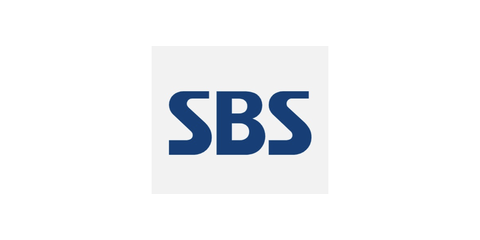
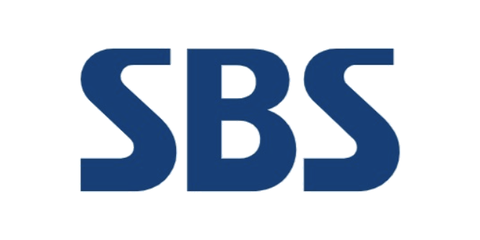
SBS 로고 배경 제거 + 관리자 파트너 로고 연동 (v67)
SBS:
- 원본에 #f2f2f2 배경 박스가 66% 차지 → 밝은 회색을 흰색으로 치환 후
  로고 기준으로 다시 트림. MBC·MBN과 크기 균형 맞음.

파트너 로고 연동:
- DB clients 테이블이 비어 있어 관리자 목록이 텅 빈 상태였음
  (사이트 48개는 index.html에 하드코딩 → 관리자가 손댈 수 없었음)
- API에 DEFAULT_CLIENTS(48개) + /clients/seed 엔드포인트 추가
  (포트폴리오 시드와 동일 방식, 비어 있을 때만 동작)
- 관리자에 "파트너 로고 48개 불러오기" 버튼 추가(목록이 빌 때만 노출)
  불러오면 이름·순서·링크를 관리자에서 직접 관리 가능
- 라벨을 사이트와 통일: 클라이언트 → 파트너 로고

Changed region(s): [[0.1562, 0.175, 0.8438, 0.8167]]

diff --git a/admin.html b/admin.html
@@ -206,7 +206,7 @@
       <button data-v="contact"><svg fill="none" stroke-width="1.8" viewBox="0 0 24 24"><path d="M21 15a2 2 0 01-2 2H7l-4 4V5a2 2 0 012-2h14a2 2 0 012 2z"/></svg>문의 섹션 문구</button>
       <button data-v="cta"><svg fill="none" stroke-width="1.8" viewBox="0 0 24 24"><path d="M4 12h13"/><path d="M13 6l6 6-6 6"/></svg>최종 CTA</button>
       <button data-v="portfolio"><svg fill="none" stroke-width="1.8" viewBox="0 0 24 24"><rect x="2" y="6" width="14" height="12" rx="2"/><path d="M22 8.5l-6 3.5 6 3.5v-7z"/></svg>포트폴리오</button>
-      <button data-v="clients"><svg fill="none" stroke-width="1.8" viewBox="0 0 24 24"><circle cx="9" cy="8" r="3.5"/><path d="M2.5 20c0-3.5 2.9-5.5 6.5-5.5s6.5 2 6.5 5.5"/><circle cx="17.5" cy="9" r="2.7"/><path d="M16.5 14.7c2.9.3 5 2.1 5 4.8"/></svg>클라이언트</button>
+      <button data-v="clients"><svg fill="none" stroke-width="1.8" viewBox="0 0 24 24"><circle cx="9" cy="8" r="3.5"/><path d="M2.5 20c0-3.5 2.9-5.5 6.5-5.5s6.5 2 6.5 5.5"/><circle cx="17.5" cy="9" r="2.7"/><path d="M16.5 14.7c2.9.3 5 2.1 5 4.8"/></svg>파트너 로고</button>
       <button data-v="footer"><svg fill="none" stroke-width="1.8" viewBox="0 0 24 24"><path d="M12 21s-7-5.5-7-11a7 7 0 1114 0c0 5.5-7 11-7 11z"/><circle cx="12" cy="10" r="2.5"/></svg>푸터 · 회사정보</button>
       <button data-v="inbox"><svg fill="none" stroke-width="1.8" viewBox="0 0 24 24"><rect x="3" y="5" width="18" height="14" rx="2.5"/><path d="M3 8l9 6 9-6"/></svg>문의내역<span class="badge" id="inboxBadge" style="display:none"></span></button>
     </nav>
@@ -417,11 +417,12 @@
     <!-- ===== 클라이언트 ===== -->
     <section class="view" data-view="clients">
       <div class="card">
-        <h3><span class="chip green"><svg fill="none" stroke="currentColor" stroke-width="1.8" viewBox="0 0 24 24"><circle cx="9" cy="8" r="3.5"/><path d="M2.5 20c0-3.5 2.9-5.5 6.5-5.5s6.5 2 6.5 5.5"/><circle cx="17.5" cy="9" r="2.7"/><path d="M16.5 14.7c2.9.3 5 2.1 5 4.8"/></svg></span>클라이언트 로고</h3>
-        <p class="desc">로고 이미지 URL을 넣으면 로고가, 없으면 이름 텍스트가 표시됩니다. 드래그로 순서 변경.</p>
+        <h3><span class="chip green"><svg fill="none" stroke="currentColor" stroke-width="1.8" viewBox="0 0 24 24"><circle cx="9" cy="8" r="3.5"/><path d="M2.5 20c0-3.5 2.9-5.5 6.5-5.5s6.5 2 6.5 5.5"/><circle cx="17.5" cy="9" r="2.7"/><path d="M16.5 14.7c2.9.3 5 2.1 5 4.8"/></svg></span>파트너 로고</h3>
+        <p class="desc">목록이 비어 있으면 사이트에 넣어둔 기본 로고가 그대로 표시됩니다. 아래 버튼으로 불러오면 그때부터 여기서 순서·이름을 관리할 수 있습니다. 드래그로 순서 변경.</p>
         <div class="rowlist" id="clList"></div>
+        <div id="clSeedWrap" style="display:none;margin-top:14px"><button class="btn ghost sm" onclick="seedCl()">현재 사이트의 파트너 로고 48개 불러오기</button></div>
         <div class="addbox">
-          <h4><span class="chip green" style="display:inline-flex;align-items:center;justify-content:center"><svg fill="none" stroke="currentColor" stroke-width="2" viewBox="0 0 24 24" width="14" height="14"><path d="M12 5v14M5 12h14"/></svg></span>새 클라이언트 추가</h4>
+          <h4><span class="chip green" style="display:inline-flex;align-items:center;justify-content:center"><svg fill="none" stroke="currentColor" stroke-width="2" viewBox="0 0 24 24" width="14" height="14"><path d="M12 5v14M5 12h14"/></svg></span>새 파트너 추가</h4>
           <label>이름</label><input id="newClName" placeholder="회사명">
           <div class="grid2">
             <div><label>로고 이미지 URL <span class="opt">(선택)</span></label><input id="newClLogo" placeholder="https://...png"></div>
@@ -512,7 +513,7 @@ const VIEW_META = {
   contact:   ["문의 섹션 문구", "CONTACT US 섹션의 문구와 고객 고민 목록입니다."],
   cta:       ["최종 CTA", "페이지 맨 아래 상담 유도 배너입니다."],
   portfolio: ["포트폴리오", "유튜브 영상 추가 · 제목 · 분류 · 순서를 관리합니다."],
-  clients:   ["클라이언트", "OUR CLIENTS 로고를 관리합니다."],
+  clients:   ["파트너 로고", "OUR PARTNERS 섹션의 로고를 관리합니다."],
   footer:    ["푸터 · 회사정보", "주소 · 연락처 · 이메일을 관리합니다."],
   inbox:     ["문의내역", "홈페이지 문의 폼으로 접수된 내용입니다."],
 };
@@ -805,6 +806,7 @@ async function addPf() {
   await loadPf(); renderDash();
 }
 async function seedPf(){ await api("/portfolio/seed",{method:"POST"}); await loadPf(); renderDash(); }
+async function seedCl(){ await api("/clients/seed",{method:"POST"}); await loadCl(); renderDash(); }
 
 // ---------- 클라이언트 ----------
 async function loadCl() {
@@ -823,7 +825,8 @@ async function loadCl() {
         <button class="btn sm" onclick="saveCl(${c.id})">저장</button>
         <button class="btn danger sm" onclick="delCl(${c.id})">삭제</button>
       </div>
-    </div>`).join("") : '<p class="muted" style="padding:8px 2px">등록된 클라이언트가 없습니다. 등록 전에는 사이트에 LOGO 자리표시가 보입니다.</p>';
+    </div>`).join("") : '<p class="muted" style="padding:8px 2px">아직 불러오지 않았습니다. 지금은 사이트에 넣어둔 기본 로고 48개가 표시되고 있습니다.</p>';
+  const sw = $("#clSeedWrap"); if (sw) sw.style.display = CL.length ? "none" : "block";
   enableDrag($("#clList"), async (order) => { await api("/clients/reorder", { method:"POST", body: JSON.stringify({ order }) }); CL = await api("/clients"); });
 }
 async function saveCl(id) {

diff --git a/functions/api/[[path]].js b/functions/api/[[path]].js
@@ -159,6 +159,58 @@ const DEFAULT_PORTFOLIO = [
   ["아트투어 〈일본 에히메편〉", "L-vzl1EGMTw", "문화·라이프"],
 ];
 
+// 최초 시드용 기본 파트너 로고 (현재 사이트 48개)
+const DEFAULT_CLIENTS = [
+  ["부산우리들병원", "assets/partners/partner-01.png"],
+  ["JUANCLINIC", "assets/partners/partner-02.png"],
+  ["한풍제약", "assets/partners/partner-03.png"],
+  ["경남제약", "assets/partners/partner-04.png"],
+  ["쉬즈메디병원", "assets/partners/partner-05.png"],
+  ["Awell", "assets/partners/partner-06.png"],
+  ["굿팜", "assets/partners/partner-07.png"],
+  ["대한중환자의학회", "assets/partners/partner-08.png"],
+  ["유로스메디컬의원", "assets/partners/partner-09.png"],
+  ["Wellver", "assets/partners/partner-10.png"],
+  ["MBC", "assets/partners/partner-11.png"],
+  ["SBS", "assets/partners/partner-12.png"],
+  ["MBN", "assets/partners/partner-13.png"],
+  ["MBC every1", "assets/partners/partner-14.png"],
+  ["명지대학교", "assets/partners/partner-15.png"],
+  ["한국방송예술진흥원", "assets/partners/partner-16.png"],
+  ["IT'S MODELS", "assets/partners/partner-17.png"],
+  ["믿는구석", "assets/partners/partner-18.png"],
+  ["플라이닥터", "assets/partners/partner-19.png"],
+  ["십장생한의원", "assets/partners/partner-20.png"],
+  ["BNI INNOVATION", "assets/partners/partner-21.png"],
+  ["RAMIQUE", "assets/partners/partner-22.png"],
+  ["BROWN STONE", "assets/partners/partner-23.png"],
+  ["LEADGEN LAB", "assets/partners/partner-24.png"],
+  ["REFERENCE CHECK KOREA", "assets/partners/partner-25.png"],
+  ["노무법인 유연", "assets/partners/partner-26.png"],
+  ["파트너사", "assets/partners/partner-27.png"],
+  ["아신특허법률사무소", "assets/partners/partner-28.png"],
+  ["법무법인 해율", "assets/partners/partner-29.png"],
+  ["회계법인 리파인드", "assets/partners/partner-30.png"],
+  ["EL Flower", "assets/partners/partner-31.png"],
+  ["나르샤", "assets/partners/partner-32.png"],
+  ["BLACK PENCIL", "assets/partners/partner-33.png"],
+  ["BETTYMOON STUDIO", "assets/partners/partner-34.png"],
+  ["파트너사", "assets/partners/partner-35.png"],
+  ["신아디앤피", "assets/partners/partner-36.png"],
+  ["원일ENG", "assets/partners/partner-37.png"],
+  ["EK CREATION", "assets/partners/partner-38.png"],
+  ["SMH 인테리어", "assets/partners/partner-39.png"],
+  ["한샘부동산", "assets/partners/partner-40.png"],
+  ["iM MOTORS", "assets/partners/partner-41.png"],
+  ["법무법인 도시", "assets/partners/partner-42.png"],
+  ["신한라이프", "assets/partners/partner-43.png"],
+  ["메리츠화재", "assets/partners/partner-44.png"],
+  ["소프리스", "assets/partners/partner-45.png"],
+  ["Amway", "assets/partners/partner-46.png"],
+  ["나는나다", "assets/partners/partner-47.png"],
+  ["Alice life", "assets/partners/partner-48.png"],
+];
+
 // ---------- 토큰 (HMAC 서명) ----------
 const b64u = (buf) => btoa(String.fromCharCode(...new Uint8Array(buf))).replace(/\+/g, "-").replace(/\//g, "_").replace(/=+$/, "");
 async function hmac(secret, msg) {
@@ -299,6 +351,15 @@ export async function onRequest({ request, env, params }) {
       if (!authed) return needAuth();
       await db.prepare("DELETE FROM clients WHERE id=?").bind(url.searchParams.get("id")).run();
       return json({ ok: true });
+    }
+    if (path === "/clients/seed" && method === "POST") {
+      if (!authed) return needAuth();
+      const cnt = await db.prepare("SELECT COUNT(*) AS c FROM clients").first();
+      if ((cnt?.c || 0) > 0) return json({ error: "이미 데이터가 있습니다. 비어있을 때만 시드할 수 있어요." }, 400);
+      await db.batch(DEFAULT_CLIENTS.map(([name, logo], i) =>
+        db.prepare("INSERT INTO clients (name,logo_url,link,sort_order) VALUES (?,?,?,?)")
+          .bind(name, logo, "", i + 1)));
+      return json({ ok: true, count: DEFAULT_CLIENTS.length });
     }
     if (path === "/clients/reorder" && method === "POST") {
       if (!authed) return needAuth();
